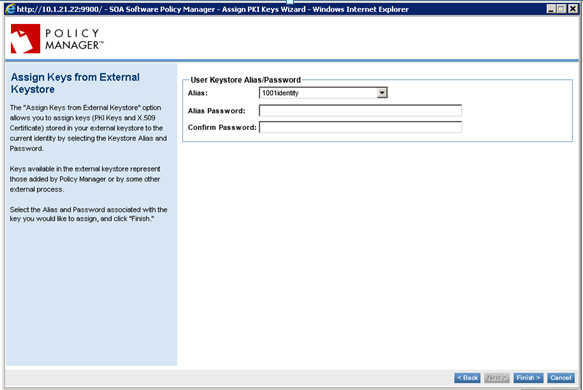
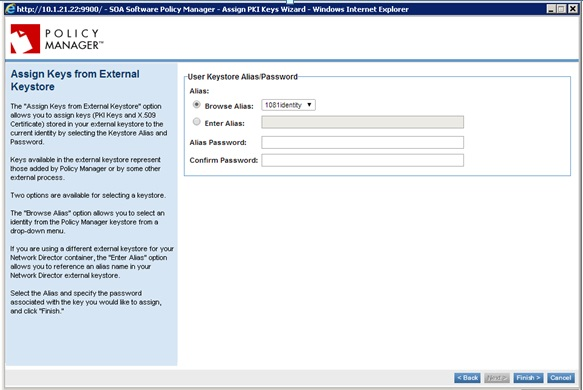
SM-12772 keystore doc updates

Changed region(s): [[0.0, 0.0, 1.0, 0.8308]]

diff --git a/ag/key_management/key_management.htm b/ag/key_management/key_management.htm
@@ -88,11 +88,17 @@ nav-title: Managing Keys
   <li><strong>External Keystore</strong> - Assigns PKI keys and X.509 certificate to the external keystore alias of the current identity. <em> <br />
     <br />
   </em>
-    <p>If you installed the <em>SOA Software External Keystore Feature</em>, the <em>Generate PKI Keys &amp; X.509 Certificate</em> screen will include a <strong>User Keystore Alias/Password </strong>option that allows you to define an alias (i.e., identity) to assign to the PKI Keys and X.509 Certificate being generated. These keys will be stored on your external keystore. </p>
-    <p>You can then assign these keys to an identity category by selecting the <strong>Assignment Options &gt; Assign PKI Keys and X.509 Certificate from User Keystore</strong> option on the <em>Manage PKI Keys Wizard</em> home page. You will be presented with the <em>Assign Keys from External Keystore</em> screen. Here you will select the &quot;Alias&quot; from the drop-down menu and specify the password. </p>
+    <p>If you installed the <em>SOA Software External Keystore Feature</em>, the <em>Generate PKI Keys &amp; X.509 Certificate</em> screen will include a <strong>User Keystore Alias/Password </strong>option that allows you to define an alias (i.e., identity) to assign to the PKI Keys and X.509 Certificate being generated. These keys will be stored on your external keystore. 
+    </p>
     <p><img src="images/assign_keys_external_option.jpg" width="579" height="401" /></p>
-    <br />
-<img src="images/assign_keys_external.jpg" width="583" height="390" /></li>
+    <p>You can then assign these keys to an identity category by selecting the <strong>Assignment Options &gt; Assign PKI Keys and X.509 Certificate from User Keystore</strong> option on the <em>Manage PKI Keys Wizard</em> home page. You will be presented with the <em>Assign Keys from External Keystore</em> screen. </p>
+    <p>Two options are available for selecting a keystore. </p>
+    <p><strong>Browse Alias:</strong> This option allows you to select an identity from the Policy Manager keystore from a drop-down menu. </p>
+    <p><strong>Enter Alias:</strong> If your containers are using different externals keystores the alias for the keys being used may not exist in the Policy Manager keystore. Use the &quot;Enter Alias&quot; option to reference the alias name if this is the case.    </p>
+    <p>After specifying an alias, you must specify the password to complete the configuration.<br />
+      <br />
+  <img src="images/assign_keys_external.jpg" width="583" height="390" /></p>
+  </li>
 </ul>
 <h4>Generate Certificate Signing Request (CSR)</h4>
 <ul class="usingOrderedList">
